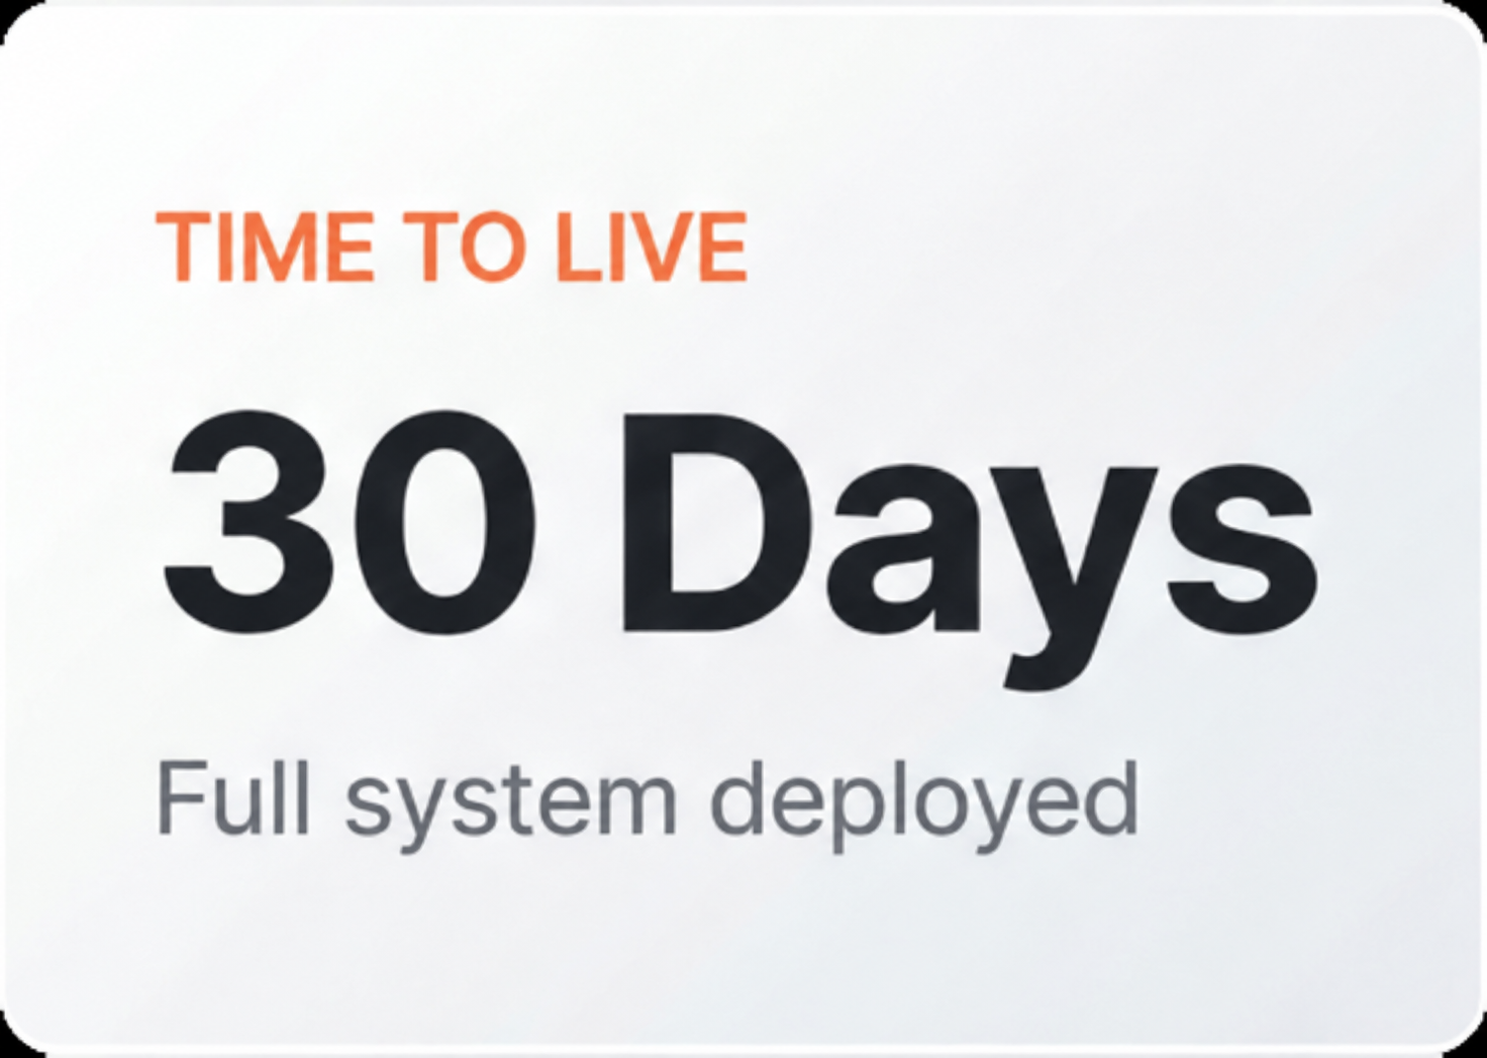
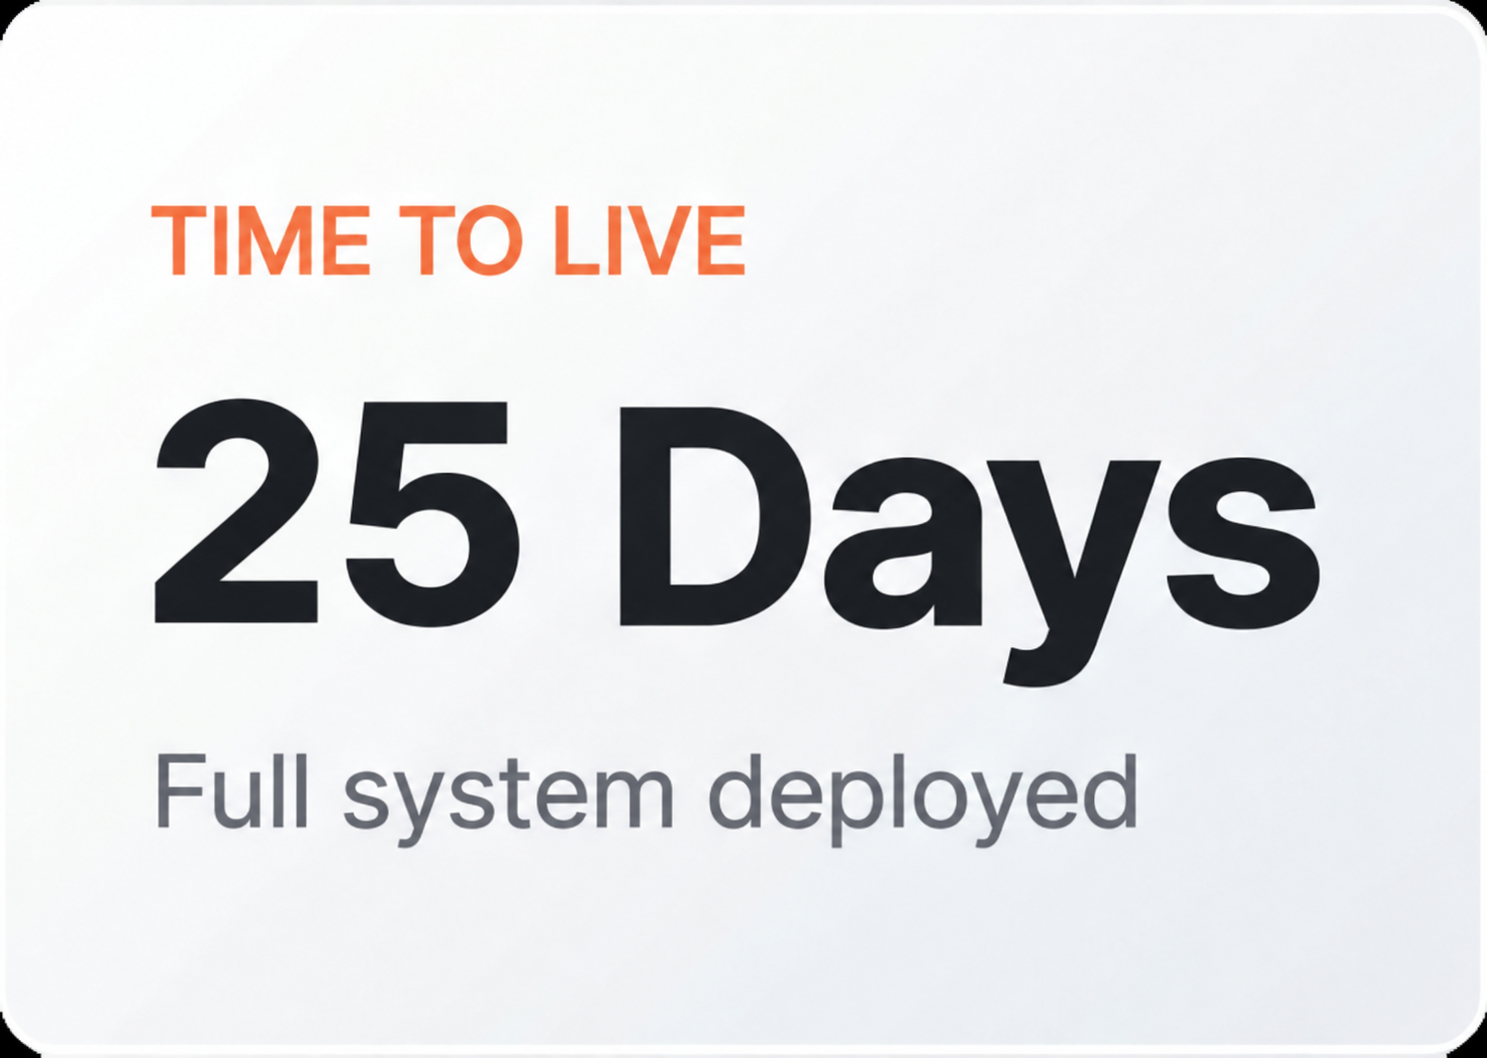
changed time to live to 25 days

diff --git a/src/components/features/home/AnimatedHero.tsx b/src/components/features/home/AnimatedHero.tsx
@@ -187,7 +187,7 @@ export default function AnimatedHero({ onNavigate }: AnimatedHeroProps) {
             className="max-w-[480px] mx-auto xl:mx-0 text-[16px] leading-[1.8]"
             style={{ color: textMuted }}
           >
-            We build AI-powered business systems and custom software for mid-market companies in India cutting manual work by 50% in 30 days.
+            We build AI-powered business systems and custom software for mid-market companies in India cutting manual work by 50% in 25 days.
           </motion.p>
 
           {/* CTAs */}
